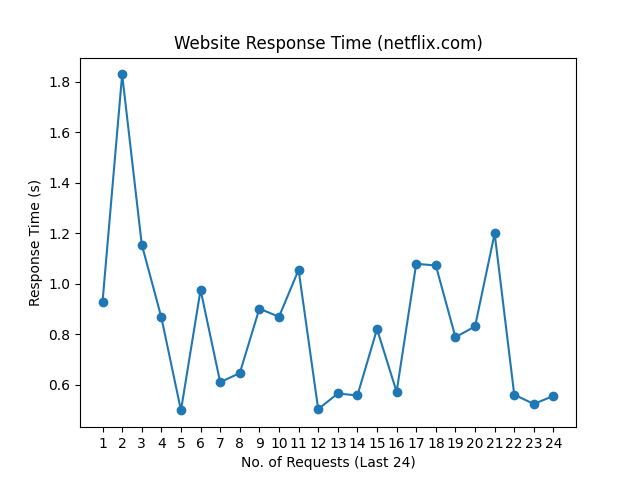
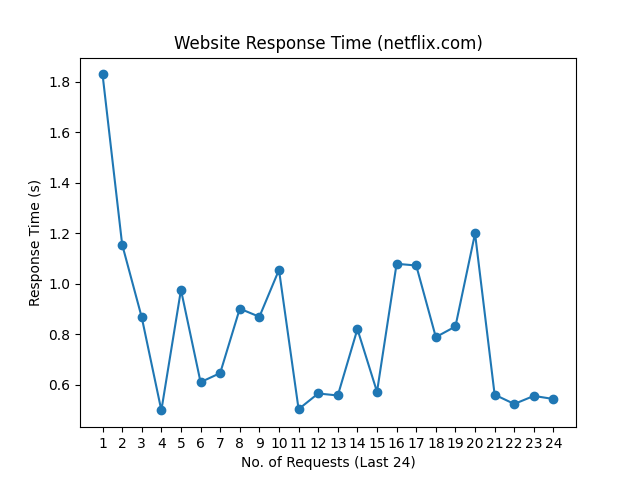
update README.md, history and graph

Changed region(s): [[0.1562, 0.125, 0.875, 0.875]]

diff --git a/README.md b/README.md
@@ -1,10 +1,10 @@
 # Web Monitoring
 
-Last Checked: 08/10/2023 09:04
+Last Checked: 09/10/2023 09:00
 
 | Website | Response Time (s) | Status | Avg Uptime (%) |
 |---------|-------------------|--------|----------------|
 | www.thiswebsiteisdown.net | 0 <br> <img src="graph/thiswebsiteisdown.net.png" alt="Graph" width="200" height="200">  | ❌ Down | 0.00 |
-| www.netflix.com | 0.556721 <br> <img src="graph/netflix.com.png" alt="Graph" width="200" height="200">  | ✅ Up | 100.00 |
-| www.google.com | 0.078565 <br> <img src="graph/google.com.png" alt="Graph" width="200" height="200">  | ✅ Up | 100.00 |
-| www.facebook.com | 0.314271 <br> <img src="graph/facebook.com.png" alt="Graph" width="200" height="200">  | ✅ Up | 100.00 |
+| www.netflix.com | 0.544433 <br> <img src="graph/netflix.com.png" alt="Graph" width="200" height="200">  | ✅ Up | 100.00 |
+| www.google.com | 0.057219 <br> <img src="graph/google.com.png" alt="Graph" width="200" height="200">  | ✅ Up | 100.00 |
+| www.facebook.com | 0.273055 <br> <img src="graph/facebook.com.png" alt="Graph" width="200" height="200">  | ✅ Up | 100.00 |
